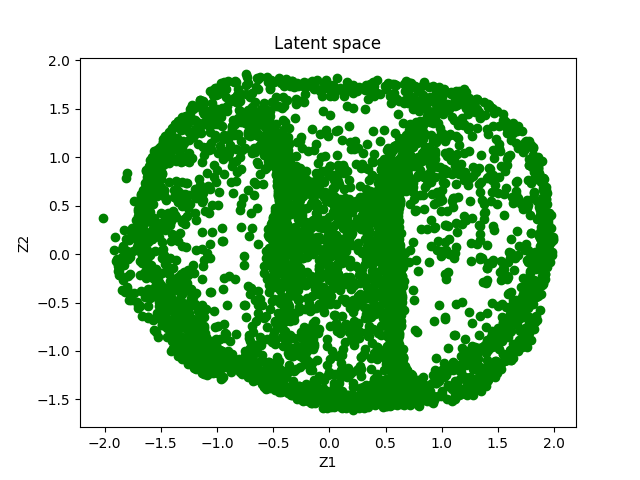
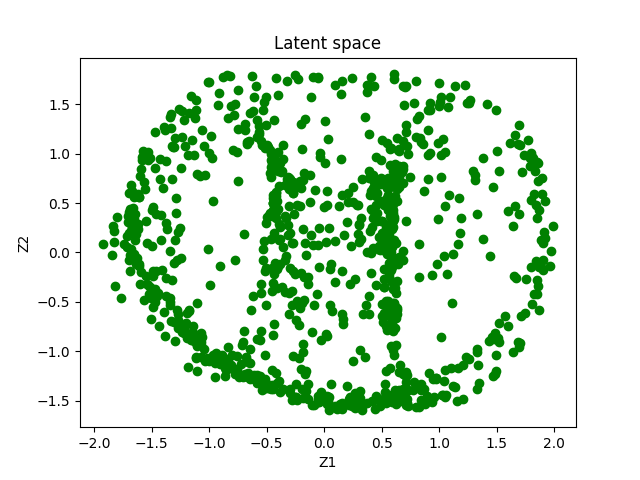
visualisations added

diff --git a/src/robotsim_test.py b/src/robotsim_test.py
@@ -6,6 +6,7 @@ import robotsim
 from robotsim import RobotSim2D
 from losses import VAE_loss_ROBOT_SIM
 from utils import *
+import numpy as np
 import matplotlib.pyplot as plt
 import yaml
 
@@ -34,8 +35,6 @@ if __name__ == '__main__':
     variational_beta = config['variational_beta']
     use_gpu = config['use_gpu']
     PATH = config['weight_dir']
-
-    NUM_SAMPLES = config['num_samples']
 
     ####################################################################################################################
     # LOAD DATASET
@@ -107,42 +106,48 @@ if __name__ == '__main__':
 
     print('---------------SAMPLE GENERATION---------------')
 
-    input = torch.Tensor([test_dataset.__getitem__(5)[0]])
-    tcp = torch.Tensor([test_dataset.__getitem__(5)[1]])
-
-    print('INPUT: ', input)
-    print('TCP: ', tcp[0])
-
+    # Create robot with 3DoF
     robot = robotsim.RobotSim2D(3, [3, 3, 3])
-    # robot.plot_configurations(joint_states=input.numpy())
 
+    # Specify initial joint angles
+    input = torch.Tensor([[-np.pi / 4, np.pi / 2, -np.pi / 4]])
+
+    # compute resulting tcp coordinates
+    tcp = robot.forward(joint_states=input.numpy())
+    tcp_x = tcp[0][0]
+    tcp_y = tcp[0][1]
+    tcp = torch.Tensor([[tcp_x, tcp_y]])
+    print('tcp coordinates: ', tcp)
+
+    # Plot ground truth configuration
+    robot.plot_configurations(joint_states=input.numpy(), path='figures/gt_configurations.png', separate_plots=False)
+
+    # Generate joints angles from predefined tcp coordinates
     _x = []
     _y = []
-    for i in range(NUM_SAMPLES):
+    preds_joints = []
+
+    for i in range(config['num_samples_config']):
         # create a random latent vector
         z = torch.randn(1, latent_dim).to(device)
         with torch.no_grad():
             recons_joint_angles = cvae.predict(z, tcp)
         preds = postprocess(recons_joint_angles)
-        # print('PREDS OF JOINT ANGLES: ', preds)
+        preds_joints.append(preds.numpy().tolist()[0])
+
+        # Compute tcp coordinates resulting by performing forward kinematics on the generated joint angles
         coord = robot.forward(joint_states=preds.numpy().tolist()[0])
         _x.append(coord[0])
         _y.append(coord[1])
 
-    # red: gt (x,y)
-    # green: (x, y) of generated joint angles
-    fig = plt.figure()
-    plt.title('TCP coordinates of generated joint angles')
-    plt.xlabel('X')
-    plt.ylabel('Y')
-    plt.scatter(_x, _y, c='g')
-    plt.scatter(tcp[0][0], tcp[0][1], c='r')
-    plt.savefig('figures/TCP_coordinates.png')
+    # Plot generated configurations
+    preds_joints = np.array(preds_joints)
+    robot.plot_configurations(joint_states=preds_joints, path='figures/generated_configurations.png', separate_plots=False)
 
     # visualise latent space
     input = []
     tcp = []
-    for i in range(NUM_SAMPLES):
+    for i in range(config['num_samples_latent']):
         input.append(test_dataset.__getitem__(i)[0])
         tcp.append(test_dataset.__getitem__(i)[1])
 
@@ -155,13 +160,10 @@ if __name__ == '__main__':
 
     # apply sine and cosine to joint angles
     input = preprocess(input)
-    # print(tcp)
 
     # forward propagation
     with torch.no_grad():
         z = cvae.visualise_z(input, tcp)
-
-    # print(z)
 
     fig = plt.figure()
     plt.title('Latent space')

diff --git a/src/robotsim.py b/src/robotsim.py
@@ -200,7 +200,7 @@ class RobotSim2D(RobotSim):
 
         return theta.T.reshape((tcp_coordinates.shape[0], 2, 3))
 
-    def plot_configurations(self, joint_states, separate_plots=True):
+    def plot_configurations(self, joint_states, path, separate_plots=True):
         """Plots configurations for specified joint states.
 
         Also accepts batches of joint states.
@@ -270,16 +270,16 @@ class RobotSim2D(RobotSim):
             ax.set_xlim([-robot_length, robot_length])
             ax.set_ylim([-robot_length, robot_length])
 
-            ax.scatter(
-                joint_coords[:, :, 0].flatten(),
-                joint_coords[:, :, 1].flatten(),
-                c='r') #, s=2)
-
             for arm in joint_coords:
-
                 ax.plot(
                     arm[:, 0].flatten(),
                     arm[:, 1].flatten(),
-                    'b')
+                    c='b')
 
-        plt.show()
+            ax.scatter(
+                joint_coords[:, :, 0].flatten(),
+                joint_coords[:, :, 1].flatten(),
+                c='r', s=8)
+
+        plt.savefig(path)
+        # plt.show()
